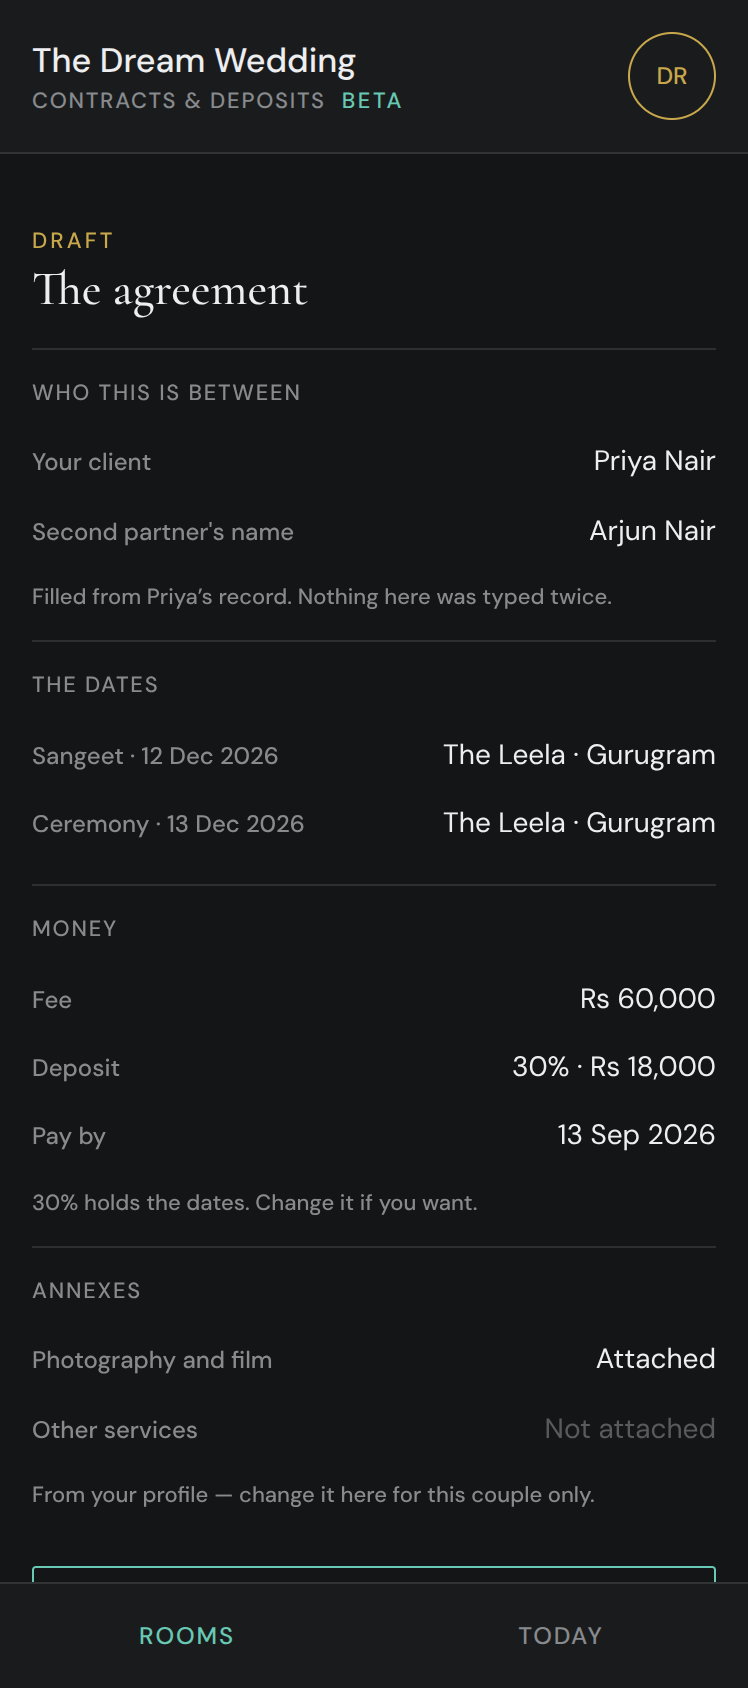
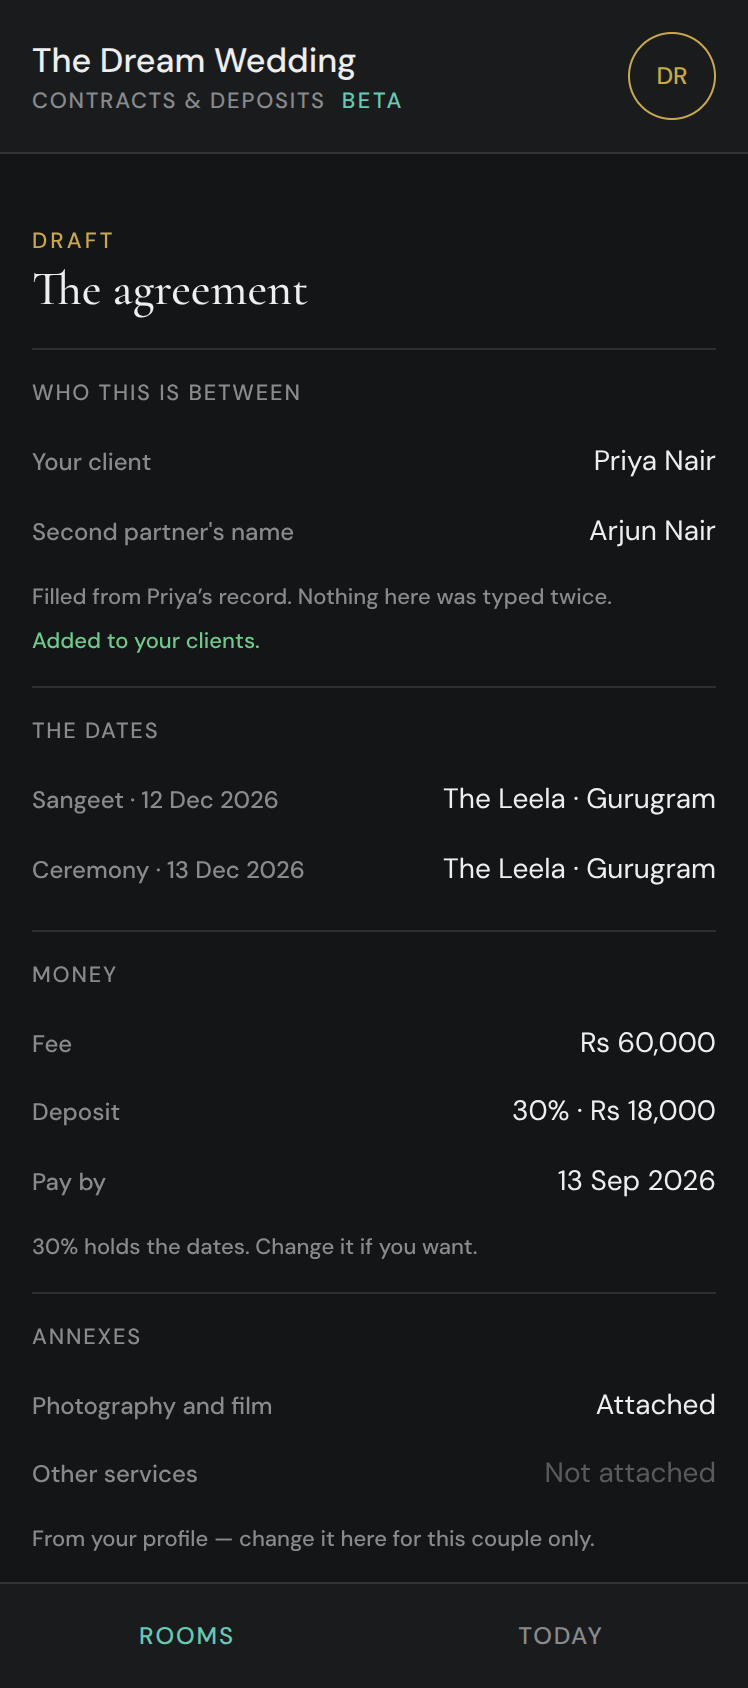
TDW_19 G3.2 mock rider 1 (base cfe4525): the picker gets its frame. F-40.139 — part 2 shipped a client picker with no ratified frame, built where a fork should have been raised, in a delivery whose first law is mock-first; its Loading byte was therefore unratified and turned out to be a lie (F-40.13

diff --git a/docs/mocks/contracts-mock.html b/docs/mocks/contracts-mock.html
@@ -112,6 +112,23 @@ body.solo .wl{width:100vw;height:100vh;box-shadow:none;border-radius:0}
 .wl-opt{padding:15px 0;border-bottom:.5px solid var(--atelier-card-border);
         font:var(--wl-t3);color:var(--atelier-ink)}
 
+/* ── THE PICKER — R-G32.17's union, and the three states it must tell apart ──
+   F-40.138: `Loading...` was keyed on LENGTH, so in-flight, failed and empty all
+   rendered one word forever. Three states, three bytes, one key. */
+.wl-pick{padding:15px 0;border-bottom:.5px solid var(--atelier-card-border);
+         display:flex;align-items:baseline;justify-content:space-between;gap:12px}
+.wl-pickname{font:var(--wl-t3);color:var(--atelier-ink)}
+/* The origin mark. A binder is someone the Cabinet already calls a client; a
+   `public.clients` row is one the estate has already promoted. The list is one
+   list, and the mark is how she knows which tap will add a name to her room. */
+.wl-pickfrom{font:var(--wl-t5);letter-spacing:.08em;text-transform:uppercase;
+             color:var(--atelier-ink-mute);flex-shrink:0}
+.wl-state{font:var(--wl-t4);line-height:1.5;letter-spacing:0;text-transform:none;
+          color:var(--atelier-ink-mute);padding:18px 0}
+.wl-state.bad{color:var(--role-critical)}
+.wl-added{font:var(--wl-t5);line-height:1.5;letter-spacing:0;text-transform:none;
+          color:var(--role-positive);padding-top:6px}
+
 /* the couple's leaf — no shell, no nav, one action */
 .wl.leaf{background:var(--atelier-page-bg)}
 .wl-leaf{flex:1;display:flex;flex-direction:column;padding:0 var(--wl-gutter);overflow:hidden}
@@ -181,6 +198,21 @@ body.solo .pg{width:100vw;height:100vh;box-shadow:none}
   <div class="wl" data-wl-mode="dark"><header class="wl-hdr"><div class="wl-hstack"><span class="wl-house">The Dream Wedding</span><span class="wl-lblrow"><span class="wl-lbl">Contracts &amp; deposits</span><span class="wl-beta">Beta</span></span></div><div class="wl-coin">DR</div></header><main class="wl-main"><div class="wl-room"><div class="wl-crow"><div class="wl-cmark">§</div><div class="wl-ccol"><div class="wl-ctitle">Priya Nair — wedding services</div><div class="wl-cmeta">Deposit Rs 18,000 · awaiting</div></div><div class="wl-chip sent">Sent</div></div><div class="wl-crow"><div class="wl-cmark">§</div><div class="wl-ccol"><div class="wl-ctitle">Anjali &amp; Rohan — wedding services</div><div class="wl-cmeta">Deposit Rs 25,000 · received 2 Sep</div></div><div class="wl-chip signed">Signed</div></div></div></main><div class="wl-sheet"><div class="wl-eyebrow">New</div><div class="wl-rectitle">Start a contract</div><div class="wl-opt">Fill the standard agreement</div><div class="wl-opt">Upload my own PDF</div><div class="wl-note">The standard wedding-services agreement. You fill your prices and policies once.</div></div><nav class="wl-nav"><div class="wl-seat on">Rooms</div><div class="wl-seat">Today</div></nav></div>
 </div>
 
+<div class="framewrap" data-frame="R4-pick">
+  <div class="cap"><b>R4-pick · one list, two planes</b> · the FK points at public.clients, so a binder pick PROMOTES through resolveOrCreateClient — the union is a display question and promotion is the only mechanism (R-G32.17) · 374×844</div>
+  <div class="wl" data-wl-mode="dark"><header class="wl-hdr"><div class="wl-hstack"><span class="wl-house">The Dream Wedding</span><span class="wl-lblrow"><span class="wl-lbl">Contracts &amp; deposits</span><span class="wl-beta">Beta</span></span></div><div class="wl-coin">DR</div></header><main class="wl-main"><div class="wl-room"><div class="wl-rechead"><div class="wl-eyebrow">New</div><div class="wl-rectitle">Your client</div></div><div class="wl-pick"><div class="wl-pickname">Priya Nair</div><div class="wl-pickfrom">Client</div></div><div class="wl-pick"><div class="wl-pickname">Ananya Verma</div><div class="wl-pickfrom">Client</div></div><div class="wl-pick"><div class="wl-pickname">Sneha Kulkarni</div><div class="wl-pickfrom">Cabinet</div></div><div class="wl-pick"><div class="wl-pickname">Ritu &amp; Kabir</div><div class="wl-pickfrom">Cabinet</div></div><div class="wl-pick"><div class="wl-pickname">Meera Iyer</div><div class="wl-pickfrom">Cabinet</div></div><div class="wl-note">Booked and confirmed people from your Cabinet are here too. Picking one adds them to your clients.</div></div></main><nav class="wl-nav"><div class="wl-seat on">Rooms</div><div class="wl-seat">Today</div></nav></div>
+</div>
+
+<div class="framewrap" data-frame="R4-pick-empty">
+  <div class="cap"><b>R4-pick-empty · genuinely nobody</b> · no clients AND no client-stage binders. This is the ONLY state that may say so — F-40.138 shipped this sentence’s shape to a vendor with a full Cabinet · 374</div>
+  <div class="wl" data-wl-mode="dark"><header class="wl-hdr"><div class="wl-hstack"><span class="wl-house">The Dream Wedding</span><span class="wl-lblrow"><span class="wl-lbl">Contracts &amp; deposits</span><span class="wl-beta">Beta</span></span></div><div class="wl-coin">DR</div></header><main class="wl-main"><div class="wl-room"><div class="wl-rechead"><div class="wl-eyebrow">New</div><div class="wl-rectitle">Your client</div></div><div class="wl-state">No one to choose from yet. Add a client, or book someone in your Cabinet.</div></div></main><nav class="wl-nav"><div class="wl-seat on">Rooms</div><div class="wl-seat">Today</div></nav></div>
+</div>
+
+<div class="framewrap" data-frame="R4-pick-failed">
+  <div class="cap"><b>R4-pick-failed · the read failed</b> · US failing, not her having nobody. The two never share a sentence again · 374</div>
+  <div class="wl" data-wl-mode="dark"><header class="wl-hdr"><div class="wl-hstack"><span class="wl-house">The Dream Wedding</span><span class="wl-lblrow"><span class="wl-lbl">Contracts &amp; deposits</span><span class="wl-beta">Beta</span></span></div><div class="wl-coin">DR</div></header><main class="wl-main"><div class="wl-room"><div class="wl-rechead"><div class="wl-eyebrow">New</div><div class="wl-rectitle">Your client</div></div><div class="wl-state bad">We couldn’t load your clients.</div></div></main><nav class="wl-nav"><div class="wl-seat on">Rooms</div><div class="wl-seat">Today</div></nav></div>
+</div>
+
 <div class="framewrap" data-frame="R4-record-blank">
   <div class="cap"><b>R4-record-blank · before the profile is set</b> · S14–S21, S28, S31, S35–S37 · empty never renders as N/A — a blank is a blank · 374×844</div>
   <div class="wl" data-wl-mode="dark"><header class="wl-hdr"><div class="wl-hstack"><span class="wl-house">The Dream Wedding</span><span class="wl-lblrow"><span class="wl-lbl">Contracts &amp; deposits</span><span class="wl-beta">Beta</span></span></div><div class="wl-coin">DR</div></header><main class="wl-main"><div class="wl-room"><div class="wl-rechead"><div class="wl-eyebrow">Draft</div><div class="wl-rectitle">The agreement</div></div><div class="wl-grp"><div class="wl-grph">Who this is between</div><div class="wl-fld"><div class="wl-fldl">Your client</div><div class="wl-fldv">Priya Nair</div></div><div class="wl-fld"><div class="wl-fldl">Second partner's name</div><div class="wl-fldv blank">Not filled</div></div></div><div class="wl-grp"><div class="wl-grph">The dates</div><div class="wl-fld"><div class="wl-fldl">Sangeet · 12 Dec 2026</div><div class="wl-fldv blank">Venue not filled</div></div><div class="wl-fld"><div class="wl-fldl">Ceremony · 13 Dec 2026</div><div class="wl-fldv blank">Venue not filled</div></div><div class="wl-note">Blank fields print as blanks. Fill what applies.</div></div><div class="wl-grp"><div class="wl-grph">Money</div><div class="wl-fld"><div class="wl-fldl">Fee</div><div class="wl-fldv">Rs 60,000</div></div><div class="wl-fld"><div class="wl-fldl">Deposit</div><div class="wl-fldv blank">Not set</div></div><div class="wl-note">Add your GSTIN to print the tax block.</div></div><div class="wl-card"><div class="wl-grph">Set your policies once</div><div class="wl-note" style="padding-top:0">Your prices, your cancellation slab, your delivery times. Asked once, used on every contract.</div><div class="wl-btn ghost">Set your policies once</div></div><div class="wl-btn quiet">Save and finish later</div></div></main><nav class="wl-nav"><div class="wl-seat on">Rooms</div><div class="wl-seat">Today</div></nav></div>
@@ -188,7 +220,7 @@ body.solo .pg{width:100vw;height:100vh;box-shadow:none}
 
 <div class="framewrap" data-frame="R4-record-filled">
   <div class="cap"><b>R4-record-filled · Priya Nair, Rs 60,000, deposit Rs 18,000</b> · S22–S34 · the deposit is 30% of the fee and has ONE home (R-G32.6) · 374×844</div>
-  <div class="wl" data-wl-mode="dark"><header class="wl-hdr"><div class="wl-hstack"><span class="wl-house">The Dream Wedding</span><span class="wl-lblrow"><span class="wl-lbl">Contracts &amp; deposits</span><span class="wl-beta">Beta</span></span></div><div class="wl-coin">DR</div></header><main class="wl-main"><div class="wl-room"><div class="wl-rechead"><div class="wl-eyebrow">Draft</div><div class="wl-rectitle">The agreement</div></div><div class="wl-grp"><div class="wl-grph">Who this is between</div><div class="wl-fld"><div class="wl-fldl">Your client</div><div class="wl-fldv">Priya Nair</div></div><div class="wl-fld"><div class="wl-fldl">Second partner's name</div><div class="wl-fldv">Arjun Nair</div></div><div class="wl-note">Filled from Priya&#8217;s record. Nothing here was typed twice.</div></div><div class="wl-grp"><div class="wl-grph">The dates</div><div class="wl-fld"><div class="wl-fldl">Sangeet · 12 Dec 2026</div><div class="wl-fldv">The Leela · Gurugram</div></div><div class="wl-fld"><div class="wl-fldl">Ceremony · 13 Dec 2026</div><div class="wl-fldv">The Leela · Gurugram</div></div></div><div class="wl-grp"><div class="wl-grph">Money</div><div class="wl-fld"><div class="wl-fldl">Fee</div><div class="wl-fldv">Rs 60,000</div></div><div class="wl-fld"><div class="wl-fldl">Deposit</div><div class="wl-fldv">30% · Rs 18,000</div></div><div class="wl-fld"><div class="wl-fldl">Pay by</div><div class="wl-fldv">13 Sep 2026</div></div><div class="wl-note">30% holds the dates. Change it if you want.</div></div><div class="wl-grp"><div class="wl-grph">Annexes</div><div class="wl-fld"><div class="wl-fldl">Photography and film</div><div class="wl-fldv">Attached</div></div><div class="wl-fld"><div class="wl-fldl">Other services</div><div class="wl-fldv blank">Not attached</div></div><div class="wl-note">From your profile — change it here for this couple only.</div></div><div class="wl-btn ghost">Preview the PDF</div><div class="wl-btn">Send to the couple</div></div></main><nav class="wl-nav"><div class="wl-seat on">Rooms</div><div class="wl-seat">Today</div></nav></div>
+  <div class="wl" data-wl-mode="dark"><header class="wl-hdr"><div class="wl-hstack"><span class="wl-house">The Dream Wedding</span><span class="wl-lblrow"><span class="wl-lbl">Contracts &amp; deposits</span><span class="wl-beta">Beta</span></span></div><div class="wl-coin">DR</div></header><main class="wl-main"><div class="wl-room"><div class="wl-rechead"><div class="wl-eyebrow">Draft</div><div class="wl-rectitle">The agreement</div></div><div class="wl-grp"><div class="wl-grph">Who this is between</div><div class="wl-fld"><div class="wl-fldl">Your client</div><div class="wl-fldv">Priya Nair</div></div><div class="wl-fld"><div class="wl-fldl">Second partner's name</div><div class="wl-fldv">Arjun Nair</div></div><div class="wl-note">Filled from Priya&#8217;s record. Nothing here was typed twice.</div><div class="wl-added">Added to your clients.</div></div><div class="wl-grp"><div class="wl-grph">The dates</div><div class="wl-fld"><div class="wl-fldl">Sangeet · 12 Dec 2026</div><div class="wl-fldv">The Leela · Gurugram</div></div><div class="wl-fld"><div class="wl-fldl">Ceremony · 13 Dec 2026</div><div class="wl-fldv">The Leela · Gurugram</div></div></div><div class="wl-grp"><div class="wl-grph">Money</div><div class="wl-fld"><div class="wl-fldl">Fee</div><div class="wl-fldv">Rs 60,000</div></div><div class="wl-fld"><div class="wl-fldl">Deposit</div><div class="wl-fldv">30% · Rs 18,000</div></div><div class="wl-fld"><div class="wl-fldl">Pay by</div><div class="wl-fldv">13 Sep 2026</div></div><div class="wl-note">30% holds the dates. Change it if you want.</div></div><div class="wl-grp"><div class="wl-grph">Annexes</div><div class="wl-fld"><div class="wl-fldl">Photography and film</div><div class="wl-fldv">Attached</div></div><div class="wl-fld"><div class="wl-fldl">Other services</div><div class="wl-fldv blank">Not attached</div></div><div class="wl-note">From your profile — change it here for this couple only.</div></div><div class="wl-btn ghost">Preview the PDF</div><div class="wl-btn">Send to the couple</div></div></main><nav class="wl-nav"><div class="wl-seat on">Rooms</div><div class="wl-seat">Today</div></nav></div>
 </div>
 
 <div class="framewrap" data-frame="R4-signature">

diff --git a/docs/mocks/G32_VETO_SHEET.md b/docs/mocks/G32_VETO_SHEET.md
@@ -336,3 +336,70 @@ the fill/send/sign doors, F-40.112's cure with one cell both ways, the template 
 (the room, the record, `/sign/`, `next build`), then floors by SET, then the founder card.
 
 **Nothing is built from this sheet until it comes back with your numbers on it.**
+
+---
+
+# RIDER 1 · THE PICKER GETS ITS FRAME (2026-09-06)
+
+**Why there is a rider at all — F-40.139, the seat's.** Part 2 shipped a **client picker
+with no ratified frame**. It was built where a fork should have been raised at the mock,
+inside a delivery whose own first law is mock-first (c-39.26). Its `Loading…` byte was
+therefore an unratified string, and it turned out to be a lie: keyed on `clients.length`,
+so **in flight, failed and genuinely empty all rendered one word forever** (F-40.138,
+s-G11.2's class, the fifth instance in this arc).
+
+**What the walk then found — F-40.140.** `HTTP 200 · ok true · total 0`. The door and the
+auth are fine and `public.clients` is EMPTY for DEV440. That table has exactly three
+writers, all through `resolveOrCreateClient` — its own header says it is *the ONLY allowed
+door to creating a client* — and all three need money or a manual entry:
+`add_client` (`engine.js:1317`), `record_payment` (`engine.js:1557`), the Clients room's
+form (`clients.js:158`). Her people live where the Cabinet reads them: `engine.records`,
+carrying `client` and `phone` in `RECORD_SELECT`.
+
+**The fork collapsed, and the chair ruled the narrower one.** `contracts_client_id_fkey`
+points at `public.clients`, so a binder id cannot satisfy it: **the union is a display
+question and promotion is the only mechanism, either way.** R-G32.17 — composing a
+contract promotes the counterparty, on the tap that names her, through
+`resolveOrCreateClient`, offering `public.clients` rows ∪ binders whose `stage` is in
+`CLIENT_STAGE_WORDS` (`cabinet.js:75`, the estate's own definition of who counts).
+R-G32.18 — `source = 'contract_compose'`, a new value on a column with no CHECK, ruled
+rather than chosen. **The caution about a silent write is answered by visibility, not by
+refusing it:** the record says so, once, at row R7.
+
+**Three new frames, one changed.**
+
+| Frame | Mode | Size | What it is for |
+|---|---|---|---|
+| `R4-pick` | dark + light | 374 | The union — Client and Cabinet in one list, with the promotion said out loud |
+| `R4-pick-empty` | dark + light | 374 | The ONLY state that may say she has nobody |
+| `R4-pick-failed` | dark + light | 374 | Us failing, which is not her having nobody |
+| `R4-record-filled` | dark + light | 374 | **CHANGED** — gains the promotion line |
+
+**Eighteen of the twenty existing captures are byte-identical after the rebuild**, and that
+is stated rather than assumed: `git status` shows exactly two modified PNGs, both
+`R4-record-filled`. The builder was re-derived to reproduce the banked bytes including
+R-40.51's #15 and the chair's #64, so a rebuild is not a re-authoring.
+
+## THE ROWS — R-40.68, veto delegated to the chair
+
+| # | Current | Proposed | YES/NO |
+|---|---|---|---|
+| R1 | `Loading…` *(keyed on length — F-40.138)* | **Loading…** — KEPT, **keyed on STATE**. The byte does not change; what it means does. | |
+| R2 | *(absent)* | **We couldn't load your clients.** *(pre-ruled)* | |
+| R3 | *(absent)* | **No one to choose from yet. Add a client, or book someone in your Cabinet.** | |
+| R4 | *(absent)* | **Your client** *(the picker's own title)* | |
+| R5 | *(absent)* | **Client** *(origin mark — she is already in your Clients room)* | |
+| R6 | *(absent)* | **Cabinet** *(origin mark — picking will add her)* | |
+| R7 | *(absent)* | **Added to your clients.** *(on the record, after the pick)* | |
+| R8 | *(absent)* | **Booked and confirmed people from your Cabinet are here too. Picking one adds them to your clients.** | |
+
+**R3 is the sentence F-40.138 already shipped the shape of, to a vendor with a full
+Cabinet.** It is now reachable only when there are no clients AND no client-stage binders —
+which is the only condition under which it is true. R2 and R3 never share a sentence again.
+
+**R5 and R6 are one word each and they carry the whole of the ruling's visibility.** A
+vendor scanning the list can see, before she taps, which taps will grow her Clients room.
+R7 confirms it after. Neither is a warning; both are statements.
+
+**R1 is the only KEPT byte on this sheet that changes meaning without changing characters.**
+That is worth the row: a later seat reading `Loading…` should find the finding, not the word.
